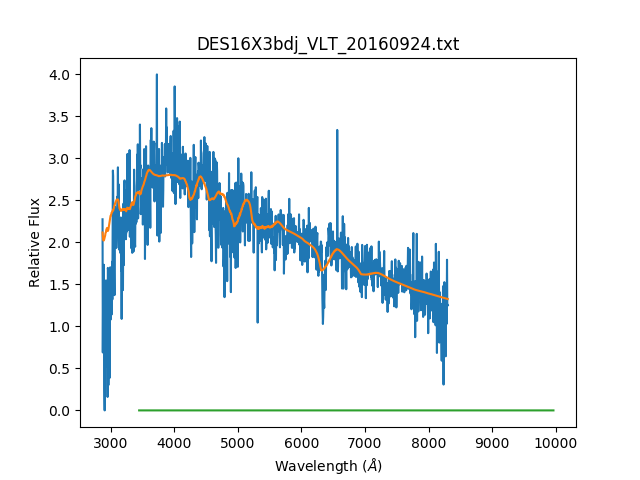
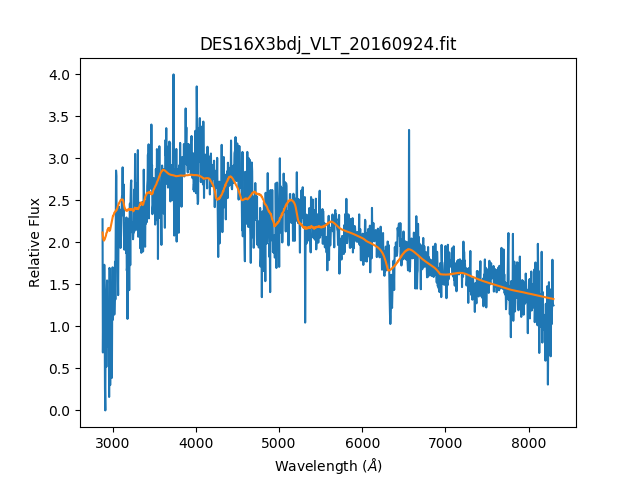
Fixed read_synapps_solution to output into table correctly. Changed regions to skip dichoric jump.

diff --git a/read_synapps_solution.py b/read_synapps_solution.py
@@ -1,10 +1,10 @@
 import numpy as np
 import csv
 
-X = "[ 5.60e-01 -7.91e-01  1.58e+00  1.28e+01  3.00e+01  8.13e+00  9.42e-01 -9.12e-01 -2.04e-01  1.00e+00  4.00e+00  1.88e-01  1.19e+00  2.20e+00 -2.96e+00  2.58e+00 -1.20e+00 -2.02e+00  1.28e+01  1.28e+01  1.28e+01  1.28e+01  1.28e+01  1.28e+01  1.28e+01  1.28e+01  1.28e+01  1.28e+01  1.28e+01  1.28e+01  3.00e+01  3.00e+01  3.00e+01  3.00e+01  3.00e+01  3.00e+01  3.00e+01  3.00e+01  3.00e+01  3.00e+01  3.00e+01  3.00e+01  1.11e+00  9.88e+00  7.25e+00  9.80e-01  3.50e-01  2.16e+00  1.30e+00  4.85e-01  3.70e-01  5.30e-01  2.70e-01  1.10e+00  3.50e+01  4.36e+00  2.50e+00  2.54e+01  6.96e+00  2.30e+01  1.60e+01  1.92e+01  1.00e+01  2.01e+01  8.57e+00  1.21e+01 ]"
-LIST_OF_IONS = [601,    800,   1100,   1201,   1401,   1402,   1601,   2001,   2601,   2602,   2701,   2801]
 SETUP_PARAMETERS = ["a0", "a1", "a2", "v_phot", "v_out", "t_phot"]
 OPACITY_PROFILE_PARAMETERS = ["log_tau", "v_min", "v_max", "aux", "temp"]
+LIST_OF_IONS = [601,    800,   1100,   1201,   1401,   1402,   1601,   2001,   2601,   2602,   2701,   2801]
+X = "[ 5.44e-01 -3.99e-01  1.08e+00  1.29e+01  3.00e+01  9.23e+00  1.15e+00 -1.33e+00 -1.52e-01  5.78e-01  4.00e+00  1.07e+00  7.55e-01  2.24e+00 -2.86e+00  2.03e+00 -1.20e+00 -2.55e+00  1.29e+01  1.29e+01  1.29e+01  1.29e+01  1.29e+01  1.29e+01  1.29e+01  1.29e+01  1.29e+01  1.29e+01  1.29e+01  1.29e+01  3.00e+01  3.00e+01  3.00e+01  3.00e+01  3.00e+01  3.00e+01  3.00e+01  3.00e+01  3.00e+01  3.00e+01  3.00e+01  3.00e+01  7.49e-01  9.20e+00  6.05e+00  1.12e+00  3.50e-01  1.07e+00  1.52e+00  4.54e-01  6.10e-01  5.30e-01  2.39e-01  4.75e-01  3.50e+01  4.20e+00  2.09e+00  2.00e+00  8.13e+00  1.38e+01  1.40e+01  2.54e+01  1.00e+01  2.26e+01  8.58e+00  1.21e+01 ]"
 
 
 def read_synapps_solution(xStr):
@@ -26,7 +26,7 @@ def read_synapps_solution(xStr):
         ionInfo[ionName] = {}
         for j in range(numOfOpacityParams):
             param = OPACITY_PROFILE_PARAMETERS[j]
-            index = i + (j * numOfOpacityParams)
+            index = i + (j * numOfIons)
             ionInfo[ionName][param] = ionVals[index]
 
     return setupInfo, ionInfo
@@ -52,8 +52,7 @@ def print_and_save_solutions(saveFilename, xStr):
             iv = float(iv)
             ln.append(iv)
         writer.writerow(ln)
-
-
+        print(ln)
 
 if __name__ == "__main__":
     print_and_save_solutions("DES16C2ayx_solved_parameters.csv", X)

diff --git a/plot_spectrum.py b/plot_spectrum.py
@@ -4,9 +4,9 @@ import matplotlib.pyplot as plt
 
 def read_file(filename):
     spectrum = np.loadtxt(filename)
-    wave = spectrum[:,0]
-    flux = spectrum[:,1]
-    fluxErr = spectrum[:,2]
+    wave = spectrum[:, 0]
+    flux = spectrum[:, 1]
+    fluxErr = spectrum[:, 2]
 
     return wave, flux, fluxErr
 
@@ -32,13 +32,14 @@ if __name__ == "__main__":
     plt.figure()
     plot_spectrum("DES16X3bdj_VLT_20160924_rest_frame.txt")
     plot_spectrum("DES16X3bdj_VLT_20160924.fit")
-    plot_spectrum("DES16X3bdj_VLT_20160924.txt")
+    # plot_spectrum("DES16X3bdj_VLT_20160924.txt")
     plt.savefig("DES16X3bdj_VLT_20160924.png")
 
     plt.figure()
     plot_spectrum("DES16C2ayx_2016sep24_rest_frame.txt", label="Smoothed Spectrum")
     plot_spectrum("DES16C2ayx_2016sep24.fit", label="Fit from non-smoothed spectrum")
     plot_spectrum("DES16C2ayx_2016sep24_smoothed7.fit", label="Fit from smoothed spectrum")
+    # plot_spectrum("DES16C2ayx_2016sep24.txt")
     plt.savefig("DES16C2ayx_2016sep24.png")
 
     plt.show()
